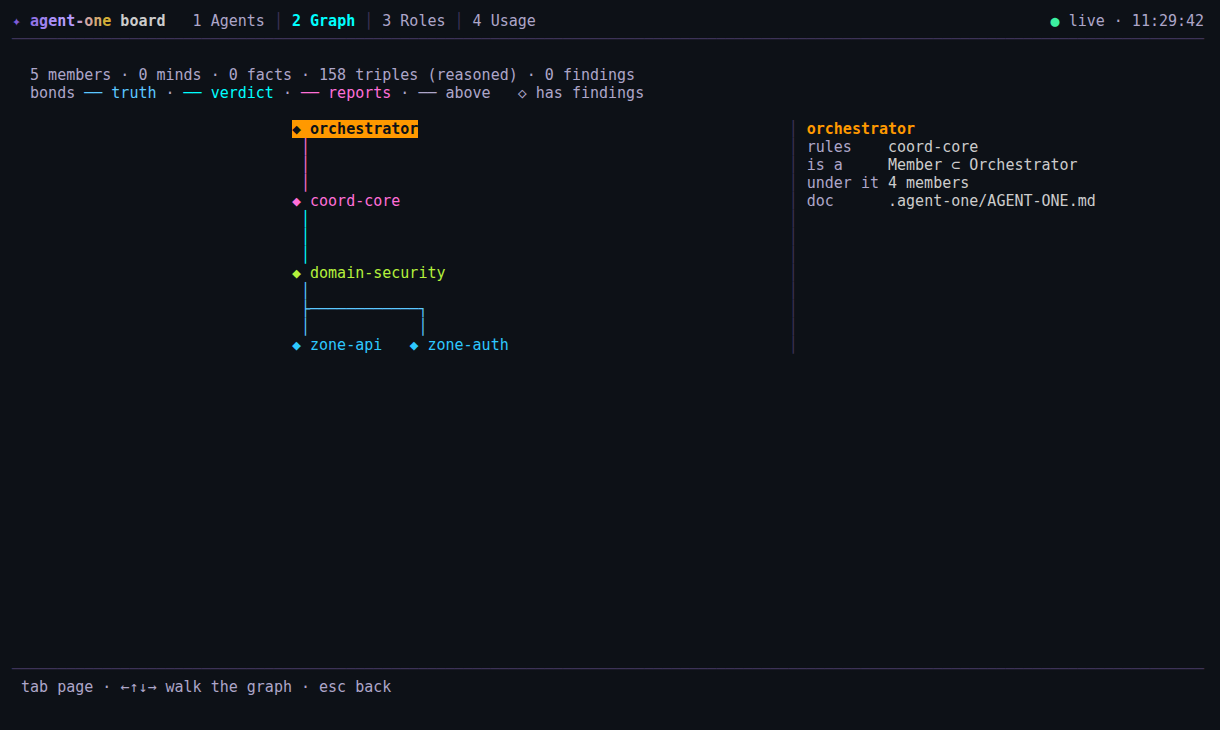
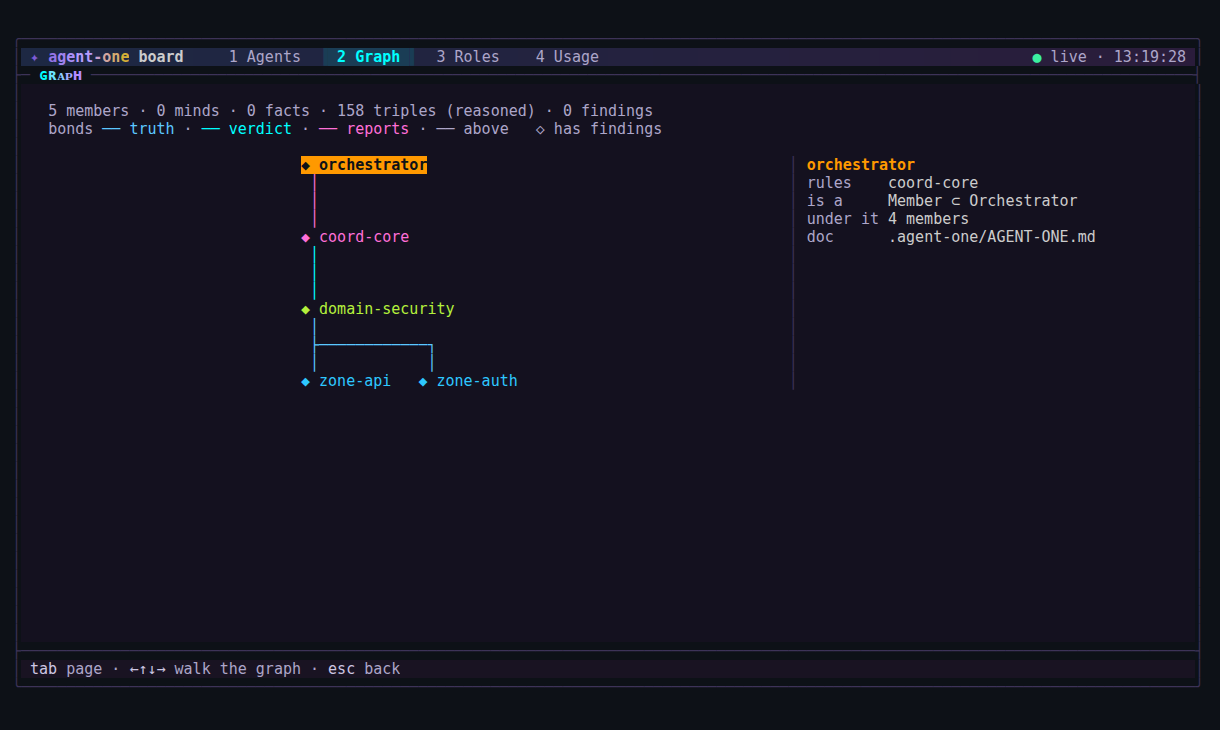
feat(tui): /board wears the session's frame — the rounded border on the ground, the raised header with the page tabs as chips, the page named in its rule, the page on the plane, the keys in the status bar, the headroom row kept; a short window tightens Usage before it scrolls

diff --git a/tui/board.go b/tui/board.go
@@ -2,6 +2,7 @@ package tui
 
 import (
 	"fmt"
+	"image/color"
 	"strings"
 	"time"
 
@@ -218,17 +219,24 @@ func (m *Model) boardUpdate(msg tea.Msg) (tea.Cmd, bool) {
 
 // boardView draws the whole screen: tabs, the page, the key line.
 func (m *Model) boardView() string {
-	b, t, w, h := m.board, m.theme, m.width, m.height
-	if h < 8 {
-		h = 8
+	b, t, w, h := m.board, m.theme, m.width, m.height-paneTop
+	if h < 9 {
+		h = 9
 	}
+	// the board holds the session's frame: the rounded border on the ground, the raised header
+	// with the page tabs as chips, a region rule naming the page, the page on the plane, the keys
+	// in the status bar — the same look, palette and depth as the conversation it replaces
+	accentHue := t.accent.GetForeground()
 	var tabs []string
 	for i, p := range boardPages {
 		label := fmt.Sprintf(" %d %s ", i+1, p)
-		if i == b.page {
+		switch {
+		case i == b.page && t.Depth:
+			tabs = append(tabs, t.pillChip(accentHue, label))
+		case i == b.page:
 			tabs = append(tabs, t.accent.Bold(true).Underline(true).Render(label))
-		} else {
-			tabs = append(tabs, t.dim.Render(label))
+		default:
+			tabs = append(tabs, " "+t.dim.Render(label)+" ")
 		}
 	}
 	title := Title(m.words.Dist) + t.tag.Render(" board")
@@ -236,16 +244,17 @@ func (m *Model) boardView() string {
 	if b.loaded {
 		status = t.ok.Render("●") + t.dim.Render(" live · "+b.view.At.Format("15:04:05"))
 	}
-	head := title + "  " + strings.Join(tabs, t.border.Render("│"))
+	inner := w - 4 // between "│ " and " │"
+	head := title + "   " + strings.Join(tabs, "")
+	// the tabs' click spans, in screen columns: the frame's "│ " comes first
 	b.tabX = b.tabX[:0]
-	x := lipgloss.Width(title) + 2
-	for i, p := range boardPages {
-		w := lipgloss.Width(fmt.Sprintf(" %d %s ", i+1, p))
-		b.tabX = append(b.tabX, [2]int{x, x + w})
-		x += w + 1
+	x := 2 + lipgloss.Width(title) + 3
+	for _, tb := range tabs {
+		tw := lipgloss.Width(tb)
+		b.tabX = append(b.tabX, [2]int{x, x + tw})
+		x += tw
 	}
-	head = padBetween(head, status, w)
-	rule := t.border.Render(strings.Repeat("─", w))
+	head = padBetween(head, status, inner)
 
 	var lines []string
 	cur := -1
@@ -260,7 +269,18 @@ func (m *Model) boardView() string {
 	case pageUsage:
 		lines, cur = m.boardUsage()
 	}
-	agent := h - 4
+	agent := h - 6 // top border, header, rule · rule, status, bottom border
+	// a short window tightens Usage before it scrolls: its spacer rows go (it has no click
+	// targets, so no hit moves)
+	if b.page == pageUsage && len(lines) > agent {
+		kept := lines[:0:0]
+		for _, l := range lines {
+			if strings.TrimSpace(ansi.Strip(l)) != "" {
+				kept = append(kept, l)
+			}
+		}
+		lines = kept
+	}
 	// the cursor: clamped to the page, and kept in view
 	if len(lines) == 0 {
 		lines = []string{""}
@@ -298,9 +318,6 @@ func (m *Model) boardView() string {
 	for len(view) < agent {
 		view = append(view, "")
 	}
-	for i, l := range view {
-		view[i] = ansi.Truncate(l, w, "…")
-	}
 	keys := "tab page · ↑↓ select · enter detail · esc back"
 	if b.page == pageGraph {
 		keys = "tab page · ←↑↓→ walk the graph · esc back"
@@ -312,8 +329,48 @@ func (m *Model) boardView() string {
 	if len(lines) > agent {
 		more = fmt.Sprintf("%d–%d of %d", off+1, end, len(lines))
 	}
-	foot := padBetween(t.dim.Render(" "+keys), t.dim.Render(more+" "), w)
-	return strings.Join(append(append([]string{head, rule}, view...), rule, foot), "\n")
+
+	// the frame's paints: identity when the depth is off
+	g := func(s string) string { return t.border.Render(s) }
+	plane, headP, statusP := func(s string) string { return s }, func(s string) string { return s }, func(s string) string { return s }
+	ruleP := func(s string) string { return s }
+	if t.Depth {
+		d := t.dep
+		ground := d.ground.col()
+		bf := t.border.GetForeground()
+		g = func(s string) string { return gl(s, bf, ground) }
+		pc := d.plane.col()
+		plane = func(s string) string { return paintBg(s, pc) }
+		from, to := t.headerTints()
+		hw := w - 2
+		ramp := make([]color.Color, hw)
+		for x := range ramp {
+			ramp[x] = from.mix(to, float64(x)/float64(max(hw-1, 1))).col()
+		}
+		headP = func(s string) string { return paint(s, func(x int) color.Color { return ramp[min(x, hw-1)] }) }
+		sb := t.statusBg()
+		statusP = func(s string) string { return paintBg(s, sb) }
+		ruleP = func(s string) string { return paintBg(s, ground) }
+	}
+	pageTitle := t.regionTitle(strings.ToLower(boardPages[b.page]))
+	out := make([]string, 0, h+paneTop)
+	for i := 0; i < paneTop; i++ {
+		out = append(out, strings.Repeat(" ", w))
+	}
+	out = append(out, g("╭")+ruleP(t.rule(w-2, "", ""))+g("╮"))
+	out = append(out, g("│")+headP(" "+fit(head, inner)+" ")+g("│"))
+	aside := ""
+	if more != "" {
+		aside = t.dim.Render(more)
+	}
+	out = append(out, g("├")+ruleP(t.rule(w-2, pageTitle, aside))+g("┤"))
+	for _, l := range view {
+		out = append(out, g("│")+plane(" "+fit(ansi.Truncate(l, inner, "…"), inner)+" ")+g("│"))
+	}
+	out = append(out, g("├")+ruleP(t.rule(w-2, "", ""))+g("┤"))
+	out = append(out, g("│")+statusP(" "+fit(t.keys(keys), inner)+" ")+g("│"))
+	out = append(out, g("╰")+ruleP(t.rule(w-2, "", ""))+g("╯"))
+	return strings.Join(out, "\n")
 }
 
 // padBetween puts left and right on one line of width w.
@@ -326,7 +383,7 @@ func padBetween(left, right string, w int) string {
 }
 
 func (m *Model) boardAgents() ([]string, int) {
-	b, t, w := m.board, m.theme, m.width
+	b, t, w := m.board, m.theme, m.boardInner()
 	rows := b.view.Agents
 	if !b.loaded {
 		return []string{"", t.dim.Render("  reading the subagent…")}, -1
@@ -352,9 +409,10 @@ func (m *Model) boardAgents() ([]string, int) {
 		nameW = 24
 	}
 	// columns by priority: the narrow screen keeps state, context and spend
-	showRank, showOffice, showAge, showModel := w >= 72, w >= 92, w >= 84, w >= 120
+	// the thresholds are the window's less the frame's four columns
+	showRank, showOffice, showAge, showModel := w >= 68, w >= 88, w >= 80, w >= 116
 	stateW := 16
-	if w < 80 {
+	if w < 76 {
 		stateW = 12
 	}
 	now := b.view.At
@@ -440,7 +498,7 @@ func (m *Model) boardAgents() ([]string, int) {
 }
 
 func (m *Model) boardOffices() ([]string, int) {
-	b, t, w := m.board, m.theme, m.width
+	b, t, w := m.board, m.theme, m.boardInner()
 	if !b.loaded {
 		return []string{"", t.dim.Render("  reading the roles…")}, -1
 	}
@@ -474,7 +532,7 @@ func (m *Model) boardOffices() ([]string, int) {
 			mark, name = t.accent.Render("›")+" ", t.tag.Render(name)
 		}
 		model := r.Model
-		if r.Fallback != "" && w >= 120 {
+		if r.Fallback != "" && w >= 116 {
 			model += t.dim.Render("  ↳ " + r.Fallback)
 		}
 		cells = append(cells, []string{mark + t.accent.Render("◆"), name, r.Role, live, humanTokens(spent[r.Name].Tokens), model})
@@ -511,7 +569,7 @@ func (m *Model) boardOffices() ([]string, int) {
 }
 
 func (m *Model) boardUsage() ([]string, int) {
-	b, t, w := m.board, m.theme, m.width
+	b, t, w := m.board, m.theme, m.boardInner()
 	u := b.view.Usage
 	if !b.loaded {
 		return []string{"", t.dim.Render("  reading the usage journal…")}, -1
@@ -694,7 +752,7 @@ func (m *Model) boardClick(ms tea.Mouse) {
 	if ms.Button != tea.MouseLeft {
 		return
 	}
-	if ms.Y == 0 {
+	if ms.Y == paneTop+1 { // the header row inside the frame
 		for i, r := range b.tabX {
 			if ms.X >= r[0] && ms.X < r[1] {
 				b.page, b.detail = i, false
@@ -702,9 +760,10 @@ func (m *Model) boardClick(ms tea.Mouse) {
 		}
 		return
 	}
-	line := ms.Y - 2 + b.lastOff
+	line := ms.Y - (paneTop + 3) + b.lastOff
+	mx := ms.X - 2 // the frame's "│ " gutter
 	for _, h := range b.hits {
-		if h.line != line || ms.X < h.x0 || ms.X >= h.x1 {
+		if h.line != line || mx < h.x0 || mx >= h.x1 {
 			continue
 		}
 		if h.id != "" {
@@ -737,3 +796,7 @@ func (m *Model) boardTable(headers []string, rows [][]string, right map[int]bool
 		})
 	return strings.Split(tb.Render(), "\n")
 }
+
+// boardInner is the width a board page lays itself out in: the window less the frame's
+// "│ " and " │".
+func (m *Model) boardInner() int { return max(m.width-4, 20) }

diff --git a/tui/board_test.go b/tui/board_test.go
@@ -135,7 +135,7 @@ func TestBoardMouse(t *testing.T) {
 	screen(m)
 	// a click on the third tab
 	x := m.board.tabX[2][0] + 1
-	m.Update(tea.MouseClickMsg{X: x, Y: 0, Button: tea.MouseLeft})
+	m.Update(tea.MouseClickMsg{X: x, Y: paneTop + 1, Button: tea.MouseLeft}) // the header row inside the frame
 	if m.board.page != pageOffices {
 		t.Fatalf("tab click: page %d", m.board.page)
 	}
@@ -151,7 +151,7 @@ func TestBoardMouse(t *testing.T) {
 	if target.id == "" {
 		t.Fatal("domain-db drew no hit")
 	}
-	m.Update(tea.MouseClickMsg{X: target.x0 + 1, Y: target.line - m.board.lastOff + 2, Button: tea.MouseLeft})
+	m.Update(tea.MouseClickMsg{X: target.x0 + 1 + 2, Y: target.line - m.board.lastOff + paneTop + 3, Button: tea.MouseLeft})
 	if m.board.sel != "domain-db" {
 		t.Fatalf("node click selected %q", m.board.sel)
 	}
@@ -159,7 +159,7 @@ func TestBoardMouse(t *testing.T) {
 	m.Update(tea.KeyPressMsg{Code: '1', Text: "1"})
 	screen(m)
 	row := m.board.hits[2]
-	click := tea.MouseClickMsg{X: 4, Y: row.line - m.board.lastOff + 2, Button: tea.MouseLeft}
+	click := tea.MouseClickMsg{X: 4 + 2, Y: row.line - m.board.lastOff + paneTop + 3, Button: tea.MouseLeft}
 	m.Update(click)
 	m.Update(click)
 	if m.board.cursor[pageAgents] != 2 || !m.board.detail {

diff --git a/tui/graph.go b/tui/graph.go
@@ -316,7 +316,7 @@ func abs(n int) int {
 }
 
 func (m *Model) boardGraph() ([]string, int) {
-	b, t, w := m.board, m.theme, m.width
+	b, t, w := m.board, m.theme, m.boardInner()
 	gv := b.view.Graph
 	if !b.loaded {
 		return []string{"", t.dim.Render("  reasoning over the ontology…")}, -1
@@ -348,7 +348,7 @@ func (m *Model) boardGraph() ([]string, int) {
 	sel := g.nodes[b.sel]
 	lines = append(lines, "")
 	cardW := 0
-	if w >= 100 {
+	if w >= 96 {
 		cardW = min(46, w/3)
 	}
 	viewW := w - 2
